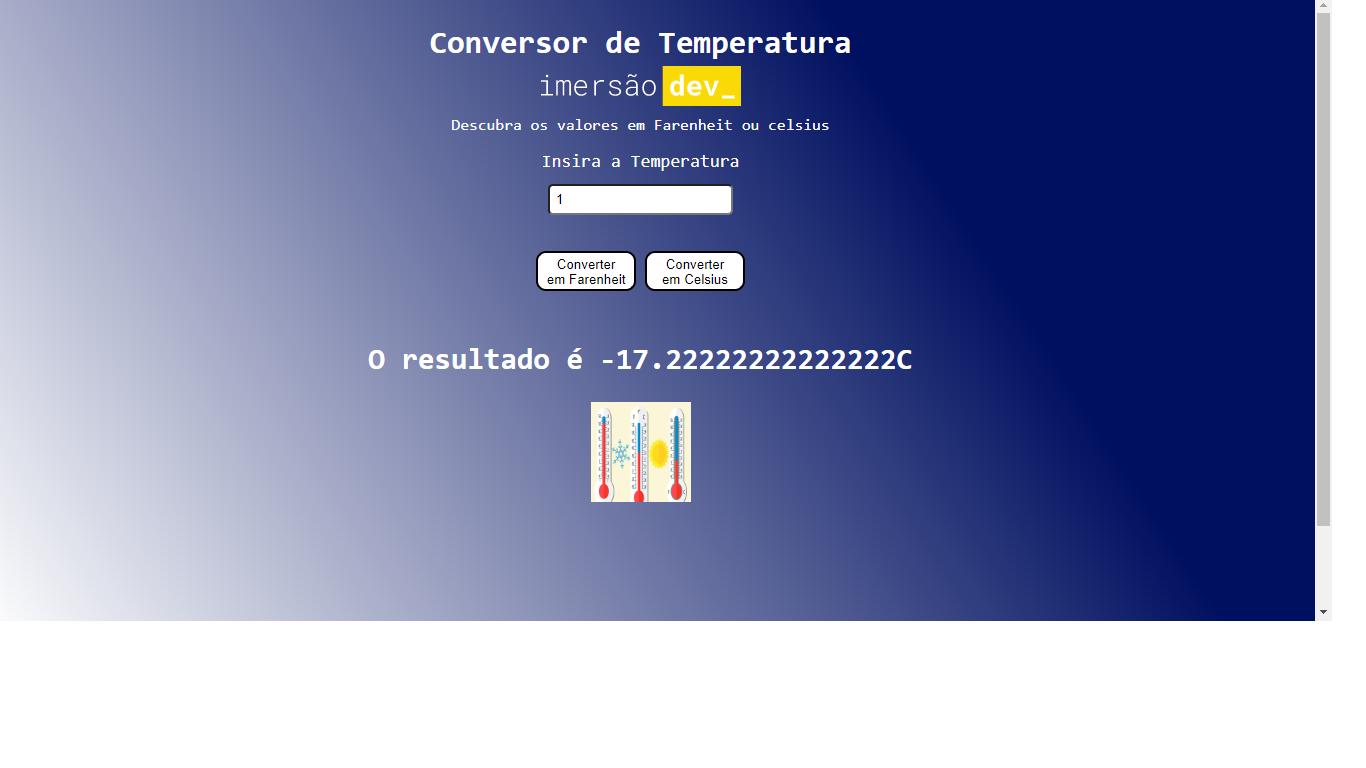
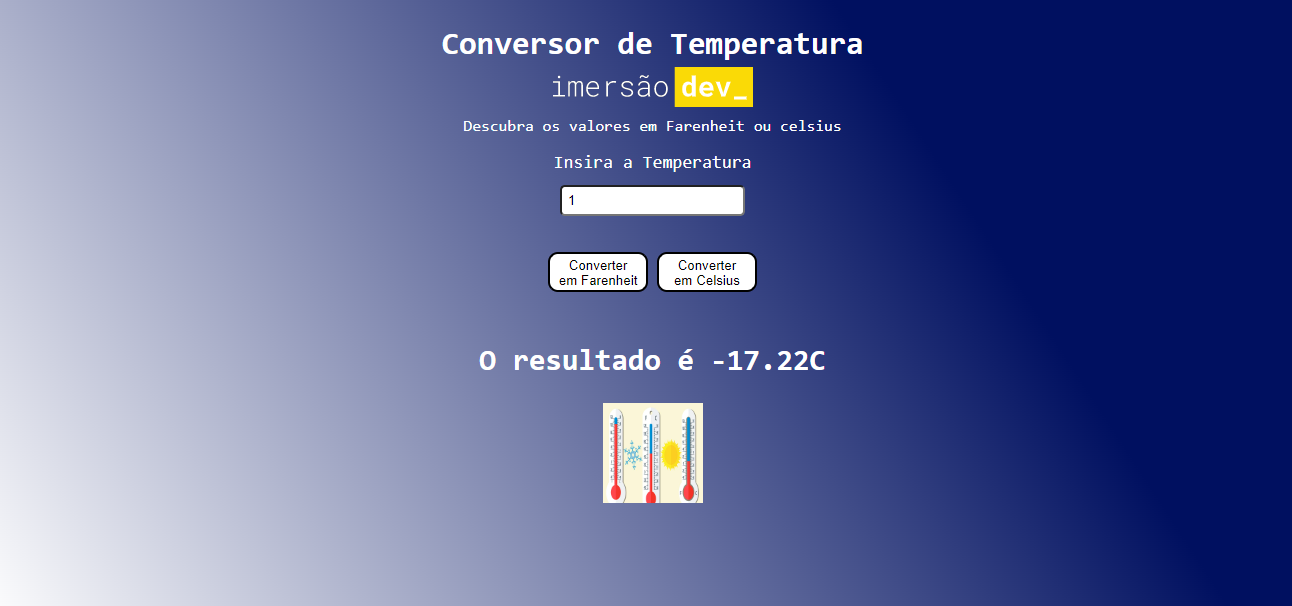
commit

Changed region(s): [[0.0, 0.0, 1.0, 1.0], [0.3096, 0.0297, 0.6811, 0.3861]]

diff --git a/edicao5/conversorTemperatura/script.js b/edicao5/conversorTemperatura/script.js
@@ -25,7 +25,7 @@ function ConverterCelsius() {
     var valorCelsius = (valorFarenheit - 32) / 1.8;
     var elementoValorConvertido = document.getElementById("valorConvertido");
 
-    var valorConvertido = "O resultado é " + valorCelsius + "C";
+    var valorConvertido = "O resultado é " + valorCelsius.toFixed(2) + "C";
     elementoValorConvertido.innerHTML = valorConvertido;
   }else {
     var valorIndefinido = "Digite a temperatura"
